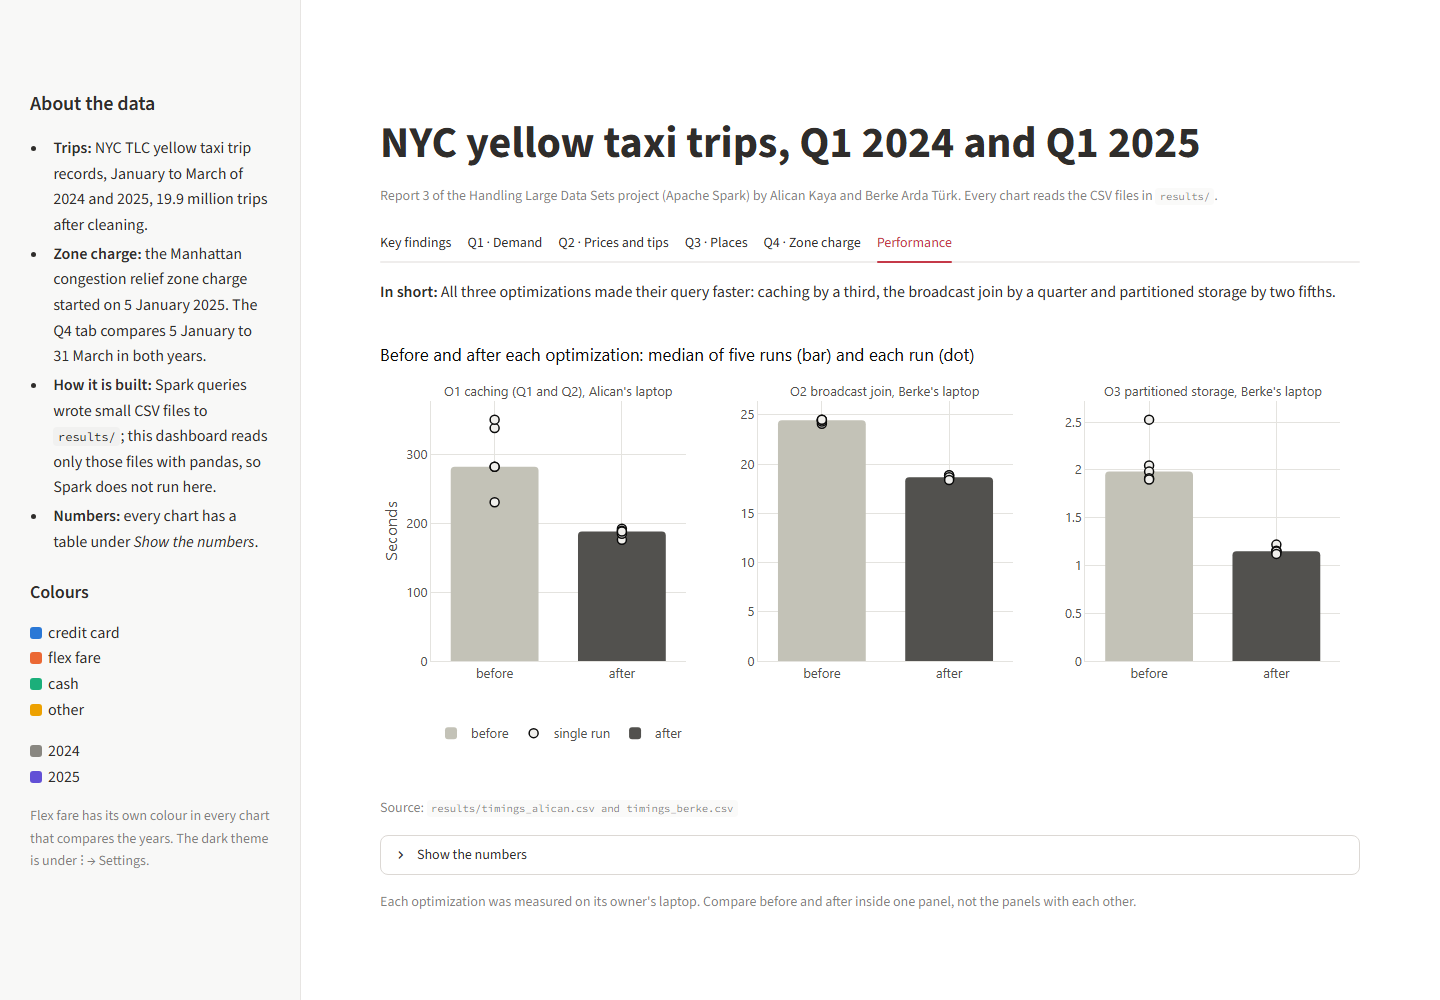
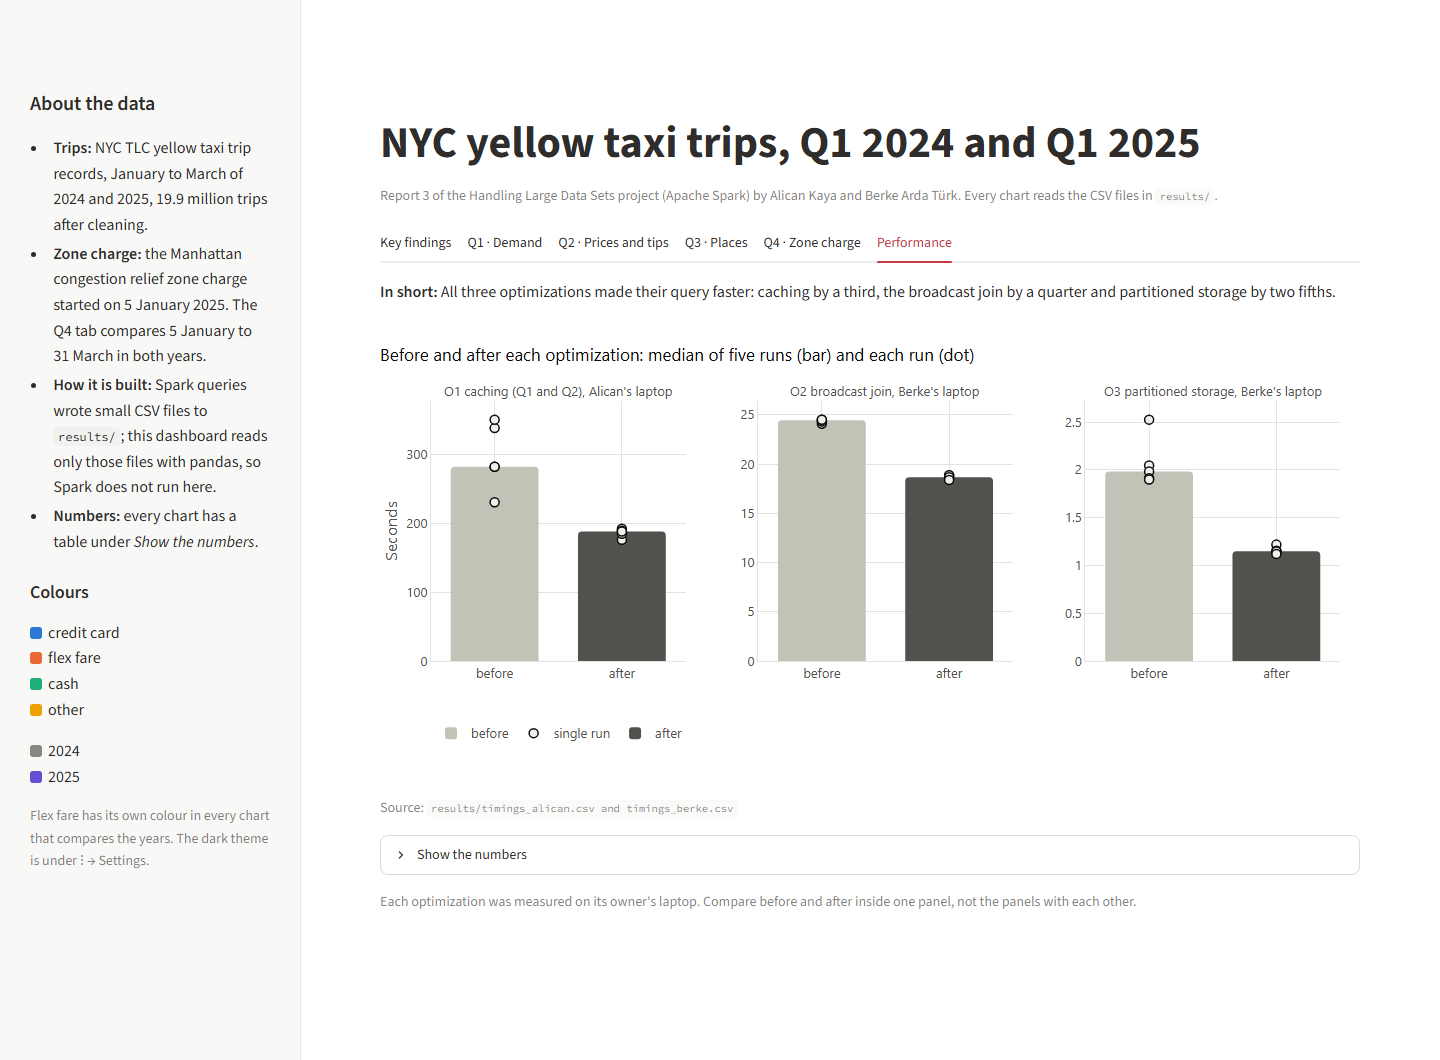
Show the first screen of each tab and number a figure reference

diff --git a/reports/report3/berke-sections.md b/reports/report3/berke-sections.md
@@ -37,7 +37,7 @@ The first tab is new in this report. A reader who opens the dashboard sees the a
 
 ### 4.3 Screenshots
 
-The screenshots show each tab in the light theme at a width of 1440 pixels, from the top of the page to the last chart. The sidebar is open in all of them; the *Show the numbers* tables are closed. They were taken with Playwright (Chromium) from the final dashboard, including the key findings tab.
+The screenshots show the first screen of each tab in the light theme, 1440 by 1060 pixels: the title, the "In short" line and the first chart. The larger versions of all charts are in Section 3. The sidebar is open in all of them; the *Show the numbers* tables are closed. They were taken with Playwright (Chromium) from the final dashboard, including the key findings tab.
 
 ![The key findings tab: five summary numbers and one chart for each finding](screenshots/dashboard-key-findings.png)
 
@@ -80,7 +80,7 @@ There were 101,401 trips per day in Q1 2024 and 118,872 in Q1 2025, 17.2% more. 
 
 ![Where the extra trips come from, by payment group](figures/findings_growth_by_payment.png)
 
-Flex fare trips grew from 7,146 to 23,139 per day and are 91.5% of the extra trips. Card trips grew by 4% and cash trips fell by 16% (Figure, `results/q2_borough_payment.csv`). These counts keep the trips with a negative price part, so they are higher than the Q2 numbers in Section 3.2. In 2025 the median recorded price per mile of a flex fare trip is 8.78 dollars, against 12.37 dollars for a card trip, and flex fare trips record no tip (`results/q2_by_payment.csv`). These prices come from Q2, which leaves out the trips with a negative price part, and they are computed from `total_amount`, which includes the zone charge for the trips that pay it, so they are a rough comparison (Section 6.1). The data only tells us that these trips have `payment_type` 0, not how they were booked or paid.
+Flex fare trips grew from 7,146 to 23,139 per day and are 91.5% of the extra trips. Card trips grew by 4% and cash trips fell by 16% (Figure 5.1, `results/q2_borough_payment.csv`). These counts keep the trips with a negative price part, so they are higher than the Q2 numbers in Section 3.2. In 2025 the median recorded price per mile of a flex fare trip is 8.78 dollars, against 12.37 dollars for a card trip, and flex fare trips record no tip (`results/q2_by_payment.csv`). These prices come from Q2, which leaves out the trips with a negative price part, and they are computed from `total_amount`, which includes the zone charge for the trips that pay it, so they are a rough comparison (Section 6.1). The data only tells us that these trips have `payment_type` 0, not how they were booked or paid.
 
 - **For the city.** A count of all trips hides this change. Any report on taxi demand, and any study of the zone charge, should show flex fare on its own, because one group of trips grew while the others stayed almost flat.
 - **For taxi operators.** The growth is in trips with a lower recorded price per mile and no recorded tip. More trips therefore do not mean the same growth in income, and an operator who looks only at the number of trips would overestimate it.
@@ -157,7 +157,7 @@ Source: `results/ml_zone_groups.csv` and `results/ml_group_profiles.csv`; the sh
 
 - **Group 1, all day.** Midtown, the Upper East and Upper West Side, the business districts and both big airports. Demand rises during the morning, stays high all day and peaks on Saturday evening (19:00). JFK and LaGuardia are not a group of their own, as we first expected: their trips are spread over the day and the week in the same way as in the busy Manhattan zones.
 - **Group 2, weekend nights.** East Village, West Village, Lower East Side, Williamsburg, Greenpoint and Bushwick. More than half of their trips start at the weekend and almost half between 22:00 and 04:59. The busiest hour is Sunday 01:00, the end of Saturday night, with 3.3% of the week's trips in one hour.
-- **Group 3, weekday mornings.** 99 of the 103 zones are outside Manhattan, for example Central Harlem North, Astoria, Bay Ridge and the residential parts of Brooklyn and the Bronx. The busiest hours are 07:00 on working days. These are trips from home in the morning.
+- **Group 3, weekday mornings.** 99 of the 103 zones are outside Manhattan, for example Central Harlem North, Astoria, Bay Ridge and the residential parts of Brooklyn and the Bronx. The busiest hours are 07:00 on working days, so these are probably trips from home in the morning; the data does not say where the riders live.
 
 ### 7.4 What the groups add
 
